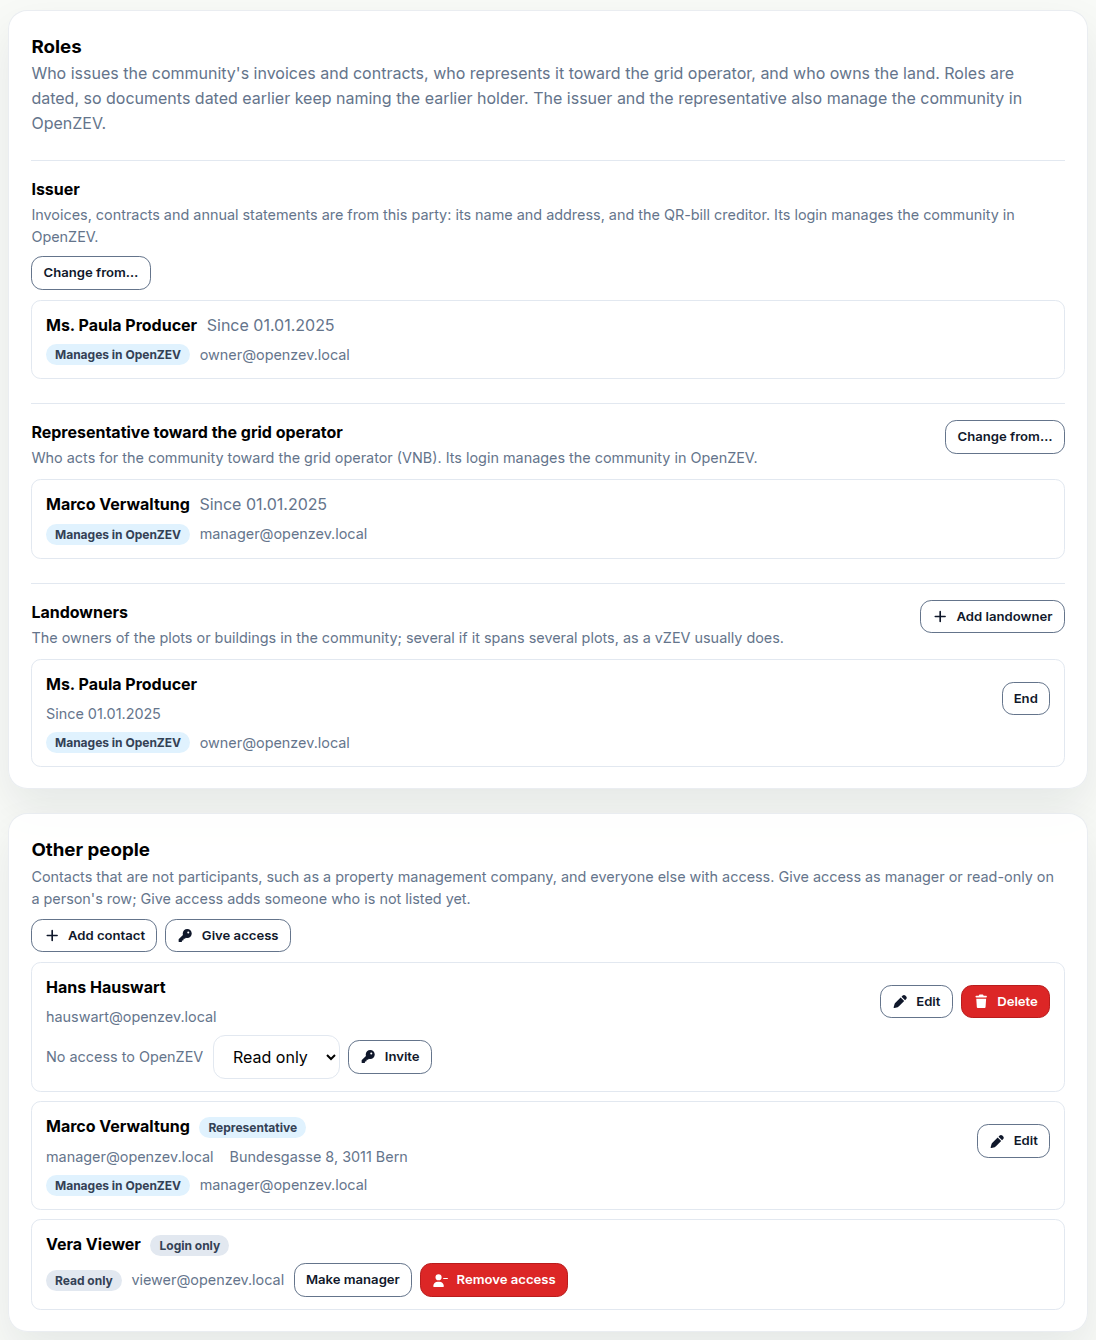
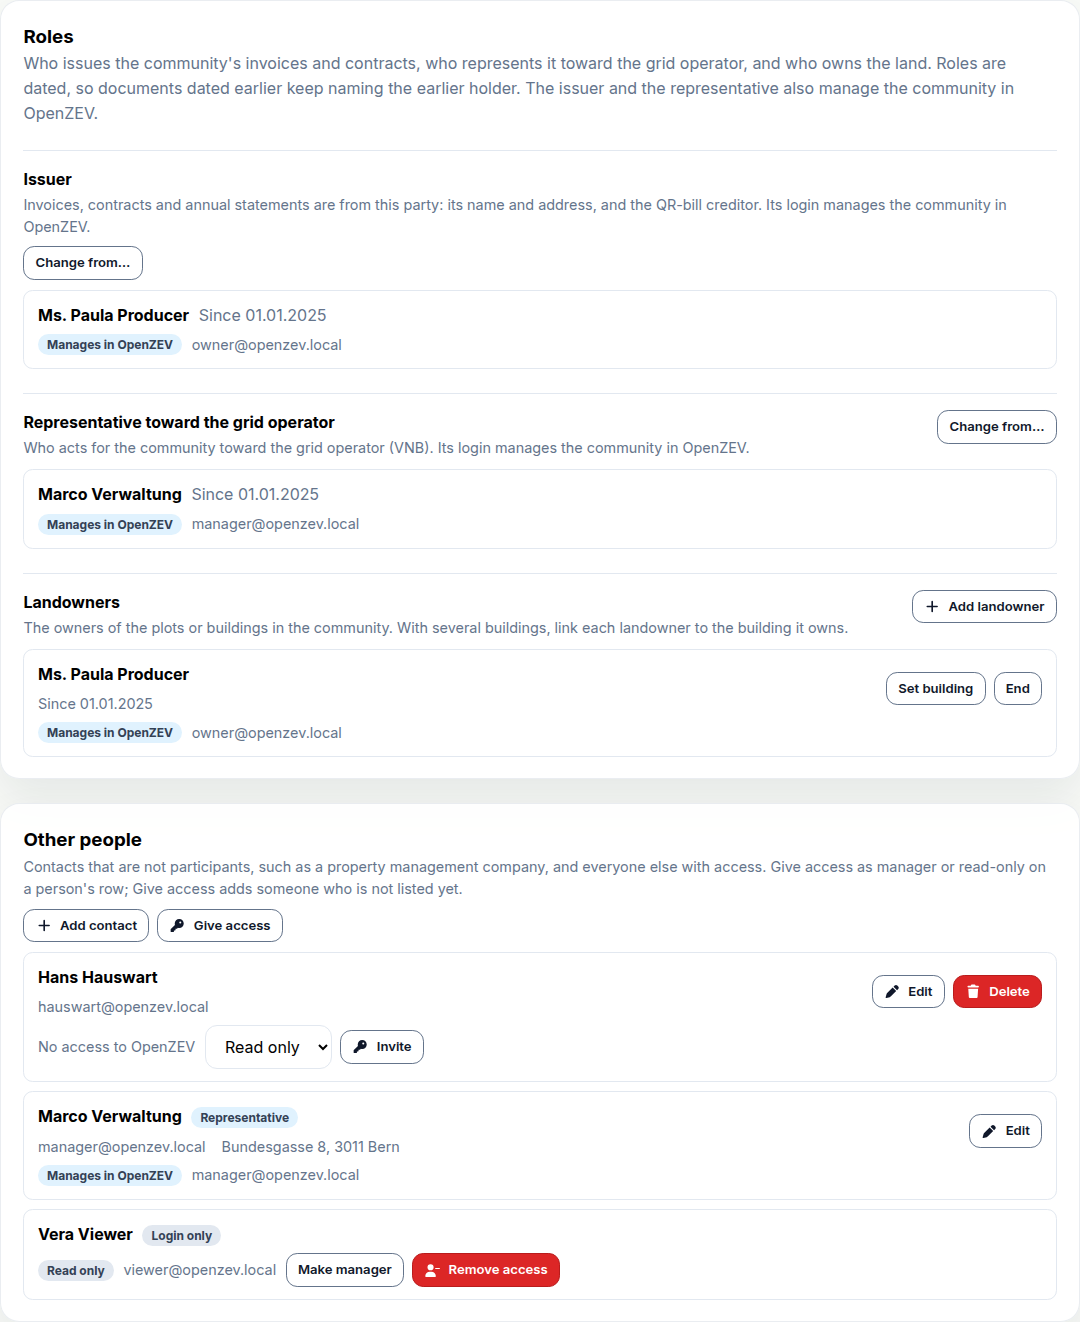
docs(release-notes): buildings and the late 1.21.0 changes
Adds a section for buildings (#894), an Also-new line for the guest page
and shorter sidebar labels (#870), and #891/#892 under the hood. The 2FA
path follows the renamed Platform → Settings, the Upgrading section lists
seventeen migrations and the new API changes, and the People & access
screenshot is retaken with the landowner building action (#895 pending).

diff --git a/docs/release-notes/1.21.0.md b/docs/release-notes/1.21.0.md
@@ -1,52 +1,59 @@
 This release separates the people a ZEV legally consists of from the logins
-that use OpenZEV. A ZEV no longer has one owner account: it has dated roles,
-and access is granted per community, so one login can manage one ZEV, look
-at another and rent in a third. If you import SDAT files, or CSV files with
-timezone offsets, read **Tariff bands follow Swiss time** before you
-regenerate draft invoices.
+that use OpenZEV, and records where its meters are. A ZEV no longer has one
+owner account: it has dated roles, and access is granted per community. If
+you import SDAT files, or CSV files with timezone offsets, read **Tariff
+bands follow Swiss time** before you regenerate draft invoices.
 
 ### Parties, dated roles and access per community
 
 Every person or organisation of a ZEV is now a *party*, with or without a
-login. A participant can be a company or a household: the participant form
-has a person/organisation choice and a second name line, and **Same person
-or organisation as** adds a second participation for someone already in the
+login. A participant can be a company or a household, and **Same person or
+organisation as** adds a second participation for someone already in the
 ZEV. Issuer, representative toward the grid operator and landowner are dated
-roles. Each document names the issuer of its own date: an invoice the one on
-its period's last day, a contract its contract date, an annual statement
-31 December.
+roles, and each document names the issuer on its own date (for an invoice,
+its period's last day).
 
 All of it is on one tab, **Settings → People & access**:
 
 ![The People & access tab: issuer, representative and landowner roles with their logins, and other people with their access levels](screenshots/1.21.0-people-access.png)
 
-The issuer and the representative manage the ZEV through their login for as
-long as they hold the role. Anyone else gets access to the whole ZEV only
-when you give it, as **Manager** or **Read only**, on their row or with
-**Give access**; people without an account are invited by email. A read-only viewer, such as a
-bookkeeper, sees and downloads everything a manager does but changes nothing.
-Managers do this themselves, without an admin, and OpenZEV refuses any change
-that would leave a ZEV without a manager.
+The issuer and the representative manage the ZEV through their login while
+they hold the role. Anyone else gets access to the whole ZEV only when you
+give it, as **Manager** or **Read only**, on their row or with **Give
+access**; people without an account are invited by email. A read-only
+viewer, such as a bookkeeper, sees everything a manager does but changes
+nothing. OpenZEV refuses any change that would leave a ZEV without a manager.
 
-Participant logins work as before: a participant linked to an account sees
-their own consumption, invoices and annual statements, with no role or grant
-needed. What is new is that one login covers every relationship: the
-community switcher lists each ZEV with the account's relation to it. A tenant
-who moves out keeps the invoices sent to them, and nothing else.
+Participant logins work as before, with no role or grant needed. One login
+now covers every relationship, and the community switcher lists each ZEV
+with the account's relation to it.
 
 Existing ZEVs migrate as they were: the owner's party becomes issuer and
 landowner, and the owner keeps managing. An owner who was not a participant
 leaves the ZEV without an issuer, as before; **Overview** now warns that its
-invoices carry no QR bill. Buildings, with an address per metering point,
-are not part of this release.
+invoices carry no QR bill.
+
+### Buildings: where the meters are
+
+A ZEV now has one or more buildings, each with an address and optionally its
+EGID, and every metering point belongs to one. A participant's address stays
+where the invoice goes, so a landlord billed for an empty flat or a PV owner
+living elsewhere is recorded as it is. Use **Add building** on **Metering
+Points**, which groups the meters by building once there are several; a
+landowner can name the building it owns. The optional map now draws
+buildings, so participant addresses are no longer sent to OpenStreetMap.
+
+The upgrade creates one building per ZEV, and in a vZEV one per participant
+address, each meter in its holder's building. In a vZEV that is a guess, so
+check it. Documents do not print the building yet.
 
 ### Tariff bands follow Swiss time
 
-Readings are stored in UTC, and billing also asked its calendar questions in
-UTC. For SDAT and offset-carrying CSV data, HT/NT and weekday bands were off
-by one hour in winter and two in summer (06:30 in summer billed as low rate,
-Saturday 00:30 counted as Friday), and periods and tariff validity started at
-UTC midnight. Offset-less CSV happened to bill correctly.
+Billing asked its calendar questions in UTC. For SDAT and offset-carrying
+CSV data, HT/NT and weekday bands were off by one hour in winter and two in
+summer (06:30 in summer billed as low rate, Saturday 00:30 counted as
+Friday), and periods and tariff validity started at UTC midnight.
+Offset-less CSV happened to bill correctly.
 
 Every calendar question is now answered in Europe/Zurich, and charts and PDFs
 show Swiss hours. The import wizard asks how to read timestamps without an
@@ -57,7 +64,6 @@ offset. Approved and sent invoices are unchanged; regenerate your drafts.
 **Reports** shows an annual report per ZEV: self-consumption and
 self-sufficiency against the previous year, month by month, and each
 participant's consumption, ZEV share and savings against the grid rate. The
-figures are the dashboard's and the annual statements', so they agree. The
 annual-statement ZIP moved here, under **Annual documents**.
 
 ### Also new
@@ -65,34 +71,35 @@ annual-statement ZIP moved here, under **Annual documents**.
 - **Generation behind the meter (surplus metering)** on a metering point: its
   holder shows no self-sufficiency rate instead of a misleading 1–2 %.
 - Two-factor authentication is one switch, **Require two-factor
-  authentication for every account**, under **Platform → System Settings →
+  authentication for every account**, under **Platform → Settings →
   Security**.
+- Shorter sidebar labels, and a page telling an account linked to no ZEV
+  how to get access.
 
 ### Fixes worth knowing about
 
 - **Participants could see invoices before they were sent.** Draft and
   approved invoices appeared under *My invoices* and counted toward their
   annual statement. Now only sent invoices do.
-- **Re-rendering a sent invoice used today's data.** Issuer, QR-bill IBAN,
-  VAT number and recipient address were read live, so a regenerated invoice
-  could differ from the one delivered. Invoices now keep a copy, frozen on
-  approval. Existing invoices were filled from today's data; check any sent
-  invoice whose IBAN or address has changed since.
+- **Re-rendering a sent invoice used today's data.** Issuer, IBAN, VAT
+  number and recipient address were read live. Invoices now keep a copy,
+  frozen on approval. Existing invoices were filled from today's data;
+  check any sent invoice whose IBAN or address has changed since.
 
 ### Under the hood
 
-Access is decided per ZEV in one module, and a write without manager rights
-fails before any view code runs. ADR 0026 records the Swiss-time decision,
-ADRs 0027 and 0028 the access and party model.
+Access is decided per ZEV in one module. An open form or pending save stays
+with the community it started in when you switch. ADR 0026 records the
+Swiss-time decision, ADRs 0027 and 0028 the access and party model, ADR 0029
+buildings.
 
 ### Upgrading
 
-Fourteen migrations, most rewriting data: ten in `zev` (access grants and
-issuer/landowner roles from each owner, one party per participant taking over
-its name and address, `Zev.owner` dropped, the behind-the-meter flag), two in
-`accounts` (the 2FA switch, platform roles collapsed to `admin`/`user`), one
-in `invoices` (the issuer/recipient copy) and one in `metering` (the import's
-timestamp zone).
+Seventeen migrations, most rewriting data: thirteen in `zev` (grants and
+roles from each owner, a party per participant, `Zev.owner` dropped, the
+behind-the-meter flag, buildings), two in `accounts` (the 2FA switch, roles
+collapsed to `admin`/`user`), one in `invoices` (the issuer/recipient copy)
+and one in `metering` (the import's timestamp zone).
 
 **Two-factor authentication:** a policy that covered any role now covers
 every account, and the grace period restarts at the upgrade.
@@ -118,7 +125,9 @@ python manage.py reanchor_readings --batch <id> [--apply]
   `mfa_required_roles` is now `mfa_required`.
 - Templates: `owner_participant.*` and `zev.owner.*` alias `issuer.*`, but
   `zev.owner.username` renders empty.
-- Transfer archives are format 5, which 1.20 cannot import.
+- Metering points carry a `building`, required on create once a ZEV has
+  several; participants no longer return `building_footprint` (buildings do).
+- Transfer archives are format 6, which 1.20 cannot import.
 
 <!-- release-notes-state
 version: 1.21.0
@@ -139,9 +148,15 @@ triaged:
   884: section   # #761 People & access tab (final UI)
   885: section   # #761 QR-bill readiness warning, last-manager guards
   887: section   # #761 creator manages via issuer role; migration 0039
+  894: section   # buildings (#890); migrations 0040-0042, archive format 6,
+                 # map geocodes buildings; Upgrading breaking changes
   852: section   # Swiss civil time; reanchor_readings in Upgrading
   854: section   # annual ZEV report on Reports
   855: also-new  # generation behind the meter flag
+  870: also-new  # guest landing page, shorter sidebar labels; System
+                 # Settings is now Platform → Settings (path updated)
+  891: hood      # shared page layouts, scoped state kept on refresh
+  892: hood      # writes and dialogs bound to their community
   863: fix       # participants saw unsent invoices
   864: omit      # spec/ADR docs
   865: omit      # tests only
@@ -156,11 +171,11 @@ triaged:
   871: omit      # dependency
   874: omit      # dependency
   883: omit      # dependency
+  893: omit      # dependency
 not-final:
-  870: open      # guest landing page, shorter sidebar labels, initials avatars.
-                 # If it lands: an Also-new line, and re-check the bold UI
-                 # paths (Reports, System Settings → Security, Settings)
-                 # against its new sidebar labels.
+  895: open      # landowner row: building and End buttons overlapped. The
+                 # People & access screenshot was retaken with this fix; if it
+                 # misses the cut, retake it from the released code.
   478: open      # renovate frontend major bump; omit when it lands
   416: open      # renovate backend bump; omit when it lands
 -->
